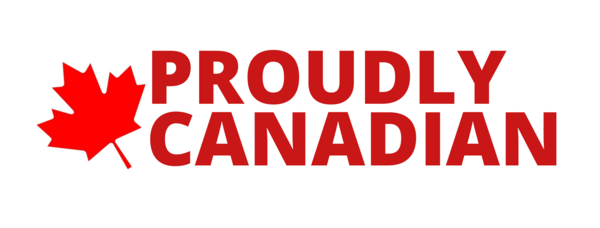
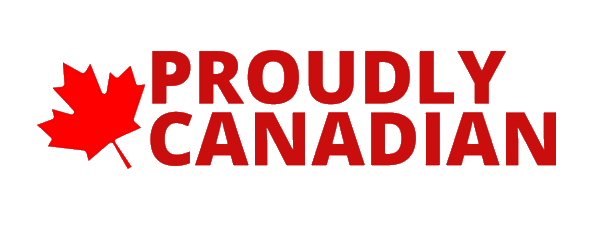
Proudly Canadian image update to png with transparent background

diff --git a/resources/views/layouts/footer.blade.php b/resources/views/layouts/footer.blade.php
@@ -57,7 +57,7 @@
                 <div class="col-md-12 col-sm-12 col-lg-12 col-xs-12">
                     <div class="cps-widget custom-menu-widget text-center">
                         <img src="{{ asset('img/proudly-canadian.png')}}" alt="Proudly Canadian" width="200">
-                        <p>Designed in Edmonton, AB.</p>
+                        <p style="margin-left: 20px;">Designed in Edmonton, AB.</p>
                     </div>
                 </div>
             </div>
